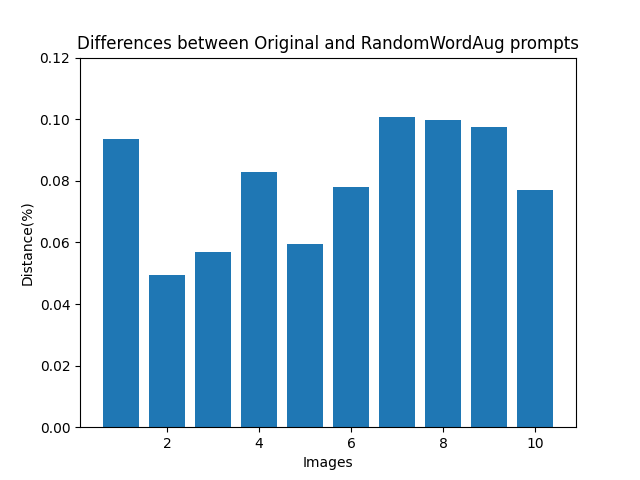
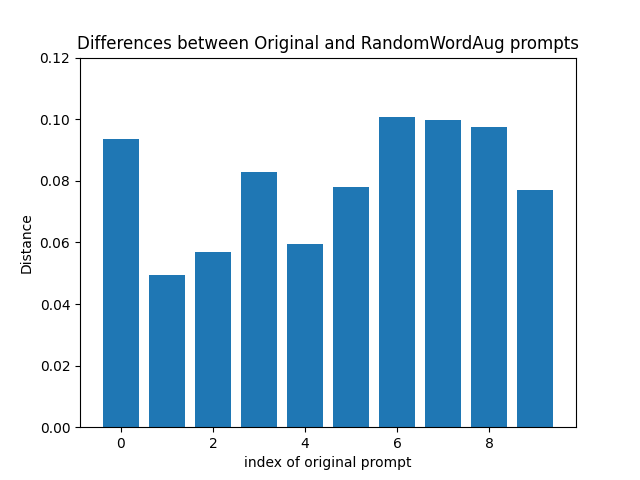
update

diff --git a/Final/compute_difference.py b/Final/compute_difference.py
@@ -29,9 +29,9 @@ def np_load(data1, data2, data3):
     print(f"CWE: {a}, \nRDW: {b}, \nSYN: {c} \n")
         
 def plot(data, title, y_lable, y_range, save):
-    plt.bar(range(1, 11), data)
+    plt.bar(range(0, len(data)), data)
     plt.title(title)
-    plt.xlabel("Images")
+    plt.xlabel("index of original prompt")
     plt.ylabel(y_lable)
     plt.ylim(0, y_range)
     plt.savefig(f"{save}.png", format='png')
@@ -40,14 +40,14 @@ def plot(data, title, y_lable, y_range, save):
 def plot_combine(data, data2, data3, title, y_lable, y_range, save):
     width = 0.2
     gap = 0.05
-    ind = range(1, len(data) + 1)
+    ind = range(0, len(data))
     ind = [x + (x-1)*gap for x in ind]
     plt.bar([x - width for x in ind], data, width, label='SYN', color='blue')
     plt.bar(ind, data2, width, label='CWE', color='red')
     plt.bar([x + width for x in ind], data3, width, label='RDW', color='green')
     plt.legend()
     plt.title(title)
-    plt.xlabel("Images")
+    plt.xlabel("index of original prompt")
     plt.ylabel(y_lable)
     plt.xticks([x for x in ind], [f'{i+1}' for i in range(len(data))])
     plt.ylim(0, y_range)
@@ -161,15 +161,15 @@ def main():
     np_load("Human_authorship_CWE.npy", "Human_authorship_RDW.npy", "Human_authorship_SYN.npy")
     
     # Visualization
-    plot(distance_F1_CWE, "Differences between Original and ContextualWordEmbsAug prompts", "Distance(%)", 0.14, "Results/distant_CWE_prompts")
-    plot(distance_F1_RDW, "Differences between Original and RandomWordAug prompts", "Distance(%)", 0.12, "Results/distant_RDW_prompt")
-    plot(distance_image_CWE, "Differences between Original and ContextualWordEmbsAug images", "Distance(%)", 0.12, "Results/distant_CWE_images")
-    plot(distance_image_RDW, "Differences between Original and RandomWordAug images", "Distance(%)", 0.22, "Results/distant_RDW_images")
-    plot(distance_F1_SYN, "Differences between Original and Synonym prompts", "Distance(%)", 0.08, "Results/distant_SYN_prompt")
-    plot(distance_image_SYN, "Differences between Original and Synonym images", "Distance(%)", 0.14, "Results/distant_SYN_images")
+    plot(distance_F1_CWE, "Differences between Original and ContextualWordEmbsAug prompts", "Distance", 0.14, "Results/distant_CWE_prompts")
+    plot(distance_F1_RDW, "Differences between Original and RandomWordAug prompts", "Distance", 0.12, "Results/distant_RDW_prompt")
+    plot(distance_image_CWE, "Differences between Original and ContextualWordEmbsAug images", "Distance", 0.12, "Results/distant_CWE_images")
+    plot(distance_image_RDW, "Differences between Original and RandomWordAug images", "Distance", 0.22, "Results/distant_RDW_images")
+    plot(distance_F1_SYN, "Differences between Original and Synonym prompts", "Distance", 0.08, "Results/distant_SYN_prompt")
+    plot(distance_image_SYN, "Differences between Original and Synonym images", "Distance", 0.14, "Results/distant_SYN_images")
 
-    plot_combine(distance_F1_SYN, distance_F1_CWE, distance_F1_RDW, "Differences between prompts", "Distance(%)", 0.14, "Results/distant_prompts")
-    plot_combine(distance_image_SYN, distance_image_CWE, distance_image_RDW, "Differences between images", "Distance(%)", 0.22, "Results/distant_images")
+    plot_combine(distance_F1_SYN, distance_F1_CWE, distance_F1_RDW, "Differences between prompts", "Distance", 0.14, "Results/distant_prompts")
+    plot_combine(distance_image_SYN, distance_image_CWE, distance_image_RDW, "Differences between images", "Distance", 0.22, "Results/distant_images")
 
     plot(Human_authorship_CWE, "Human Authorship scores for ContextualWordEmbsAug", "Score", 2.00, "Results/HA_scores_CWE")
     plot(Human_authorship_RDW, "Human Authorship scores for RandomWordAug", "Score", 3.50, "Results/HA_scores_RDW")
